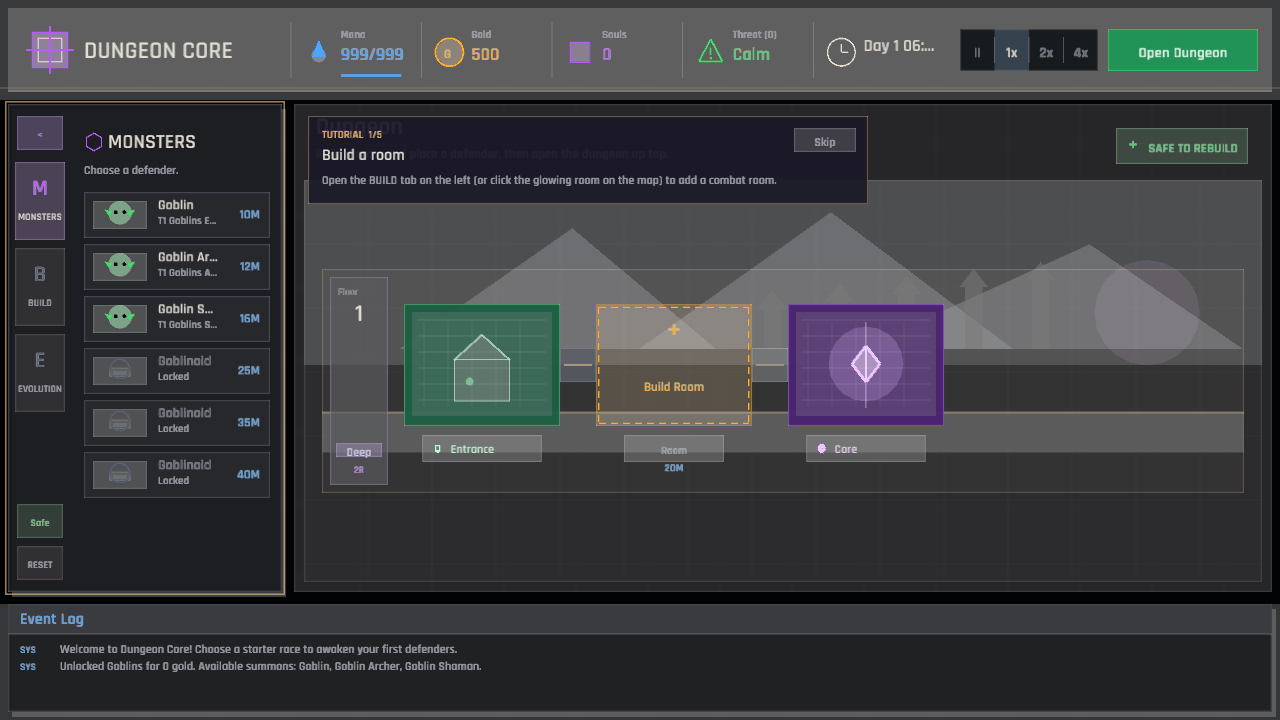
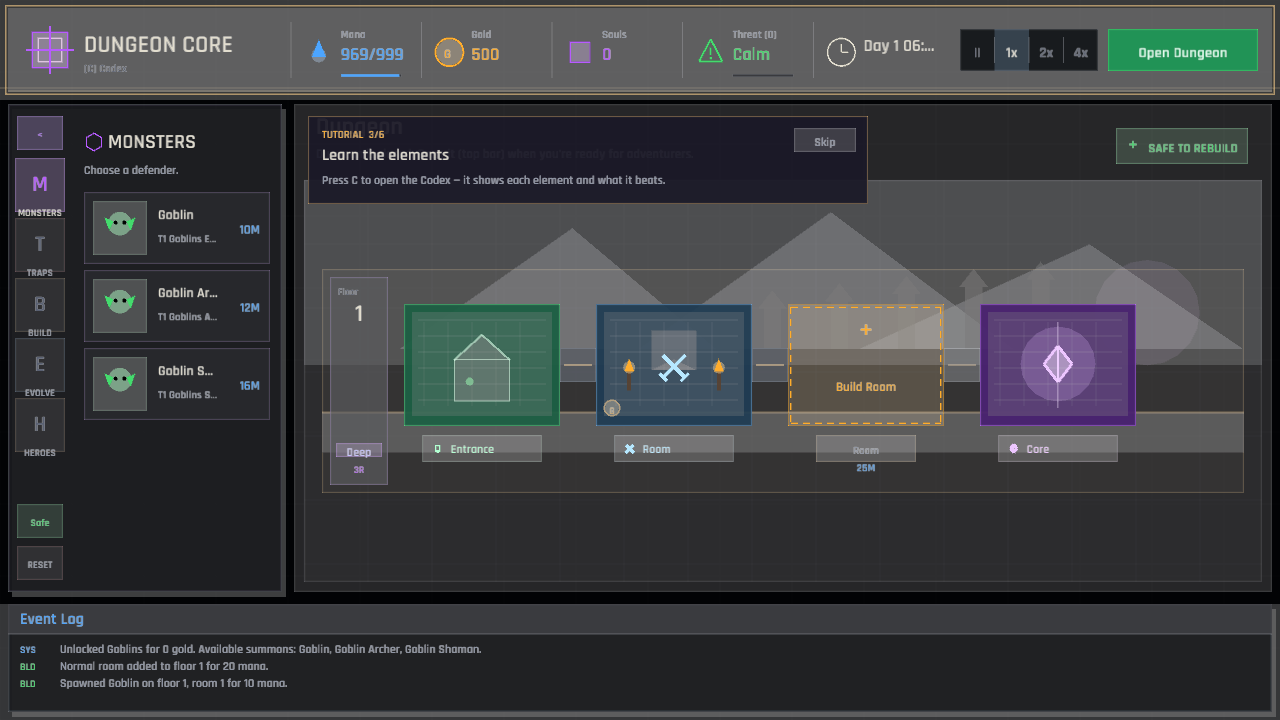
feat: raid legibility — tutorial teaches the element depth
The tutorial now onboards players into the systems, not just the buttons.
Adds a "Learn the elements" beat right after the first defender is placed,
gated on actually opening the Codex element wheel (press C), plus tightens
the raid step to point at the new HP-bar read ("defenders left, invaders
right"). Complements the at-placement matchup hints so the element/
attunement system is discoverable both in the funnel and at decision time.

Tracks a transient tutorial_codex_seen flag set when the Codex opens.
Now a 6-step tutorial; capture scene shows the new step.

Seventh Tier-1 (raid legibility) item; only party-token movement remains.

diff --git a/index.html b/index.html
@@ -92,7 +92,38 @@
     <!-- Macroquad JS Bundle -->
     <script src="mq_js_bundle.js"></script>
     <script>
-        document.getElementById('loading').style.display = 'none';
+        (function () {
+            var overlay = document.getElementById('loading');
+            var glcanvas = document.getElementById('glcanvas');
+            // Keep macroquad's drawing buffer matched to the canvas CSS size. The
+            // engine only re-measures on the window 'resize' event, but the
+            // responsive container can change size without firing one, which leaves
+            // mouse input offset from the rendered UI (the classic "cursor is in the
+            // wrong place" bug). Its onresize handler dereferences wasm_exports, so
+            // only sync once the game module has loaded.
+            function syncCanvasSize() {
+                if (window.wasm_exports) window.dispatchEvent(new Event('resize'));
+            }
+            // Reveal the canvas only once the wasm has instantiated and started
+            // (mq_js_bundle sets the global wasm_exports just before calling main()),
+            // instead of synchronously while the ~2 MB module is still downloading.
+            var waitStart = Date.now();
+            (function waitForGame() {
+                if (window.wasm_exports) {
+                    requestAnimationFrame(function () {
+                        if (overlay) overlay.style.display = 'none';
+                        syncCanvasSize();
+                        if (window.ResizeObserver && glcanvas) {
+                            new ResizeObserver(syncCanvasSize).observe(glcanvas);
+                        }
+                    });
+                } else if (Date.now() - waitStart > 30000) {
+                    if (overlay) overlay.style.display = 'none';
+                } else {
+                    requestAnimationFrame(waitForGame);
+                }
+            })();
+        })();
         
         load("dungeon_core.wasm");
 

diff --git a/src/ui/tutorial.rs b/src/ui/tutorial.rs
@@ -19,7 +19,7 @@ struct StepDef {
     anchor: TutorialAnchor,
 }
 
-const STEPS: [StepDef; 5] = [
+const STEPS: [StepDef; 6] = [
     StepDef {
         title: "Build a room",
         instruction: "Open the BUILD tab on the left (or click the glowing room on the map) to add a combat room.",
@@ -31,8 +31,13 @@ const STEPS: [StepDef; 5] = [
         anchor: TutorialAnchor::Drawer,
     },
     StepDef {
+        title: "Learn the elements",
+        instruction: "Press C to open the Codex — it shows each element and what it beats.",
+        anchor: TutorialAnchor::Hud,
+    },
+    StepDef {
         title: "Set a trap",
-        instruction: "Click a room to select it, then apply a Trap upgrade from the panel on the right.",
+        instruction: "Select a room, then apply a Trap upgrade from the right panel.",
         anchor: TutorialAnchor::Board,
     },
     StepDef {
@@ -42,7 +47,7 @@ const STEPS: [StepDef; 5] = [
     },
     StepDef {
         title: "Survive a raid",
-        instruction: "Adventurers are coming. Hold your core and let your defenders do their work!",
+        instruction: "Watch the HP bars trade blows. Hold your core and let your defenders work!",
         anchor: TutorialAnchor::Board,
     },
 ];
@@ -79,20 +84,22 @@ fn step_complete(state: &GameState, step_idx: usize) -> bool {
             .iter()
             .flat_map(|floor| &floor.rooms)
             .any(|room| !room.monsters.is_empty()),
+        // Learn the elements: the player opened the Codex element wheel.
+        2 => state.tutorial_codex_seen,
         // Set a trap: any room carries a Trap upgrade.
-        2 => state
+        3 => state
             .floors
             .iter()
             .flat_map(|floor| &floor.rooms)
             .any(|room| room.has_upgrade_type(RoomUpgradeType::Trap)),
         // Open the dungeon: it is open, has visitors, or a raid already ran.
-        3 => {
+        4 => {
             state.status == DungeonStatus::Open
                 || !state.adventurer_parties.is_empty()
                 || state.raids_completed >= 1
         }
         // Survive a raid: at least one party has come and gone.
-        4 => state.raids_completed >= 1,
+        5 => state.raids_completed >= 1,
         _ => true,
     }
 }

diff --git a/src/main.rs b/src/main.rs
@@ -542,6 +542,7 @@ fn render_playing_frame(
     if !*show_codex && is_key_pressed(KeyCode::C) {
         *show_codex = true;
         *codex_scroll = 0.0;
+        state.tutorial_codex_seen = true;
     }
     if *show_codex && draw_codex(state, sw, sh, codex_scroll) {
         *show_codex = false;
@@ -591,8 +592,14 @@ fn seed_capture_scene(state: &mut GameState, scene: &str) {
             if let Some(species) = first_starter_species() {
                 let _ = simulation::unlock_species(state, &species);
             }
+            // Mid-tutorial: a room and defender are down, now learning elements.
+            let _ = simulation::add_room(state, None);
+            let monster = state.unlocked_monsters.first().cloned();
+            if let (Some(monster), Some((floor, pos))) = (monster, find_combat_room(state)) {
+                let _ = simulation::place_monster(state, floor, pos, &monster);
+            }
             state.tutorial_active = true;
-            state.tutorial_step = 0;
+            state.tutorial_step = 2;
             state.status = DungeonStatus::Closed;
         }
         "placement" => {

diff --git a/src/game_state.rs b/src/game_state.rs
@@ -457,6 +457,10 @@ pub struct GameState {
     pub tutorial_active: bool,
     #[serde(default)]
     pub tutorial_step: i32,
+    /// The player has opened the Codex at least once (drives the tutorial's
+    /// "learn the elements" beat). Transient — re-taught each session.
+    #[serde(skip)]
+    pub tutorial_codex_seen: bool,
 
     // Monster progression
     pub unlocked_species: Vec<String>,
@@ -523,6 +527,7 @@ impl GameState {
             game_over: false,
             tutorial_active: true,
             tutorial_step: 0,
+            tutorial_codex_seen: false,
             unlocked_species: vec![],
             unlocked_monsters: vec![],
             selected_room: None,

diff --git a/COMMERCIAL_ROADMAP.md b/COMMERCIAL_ROADMAP.md
@@ -67,9 +67,13 @@ every tick — and surfaces it as log lines and floating strings.
       threshold; an active siege paints a pulsing red screen frame plus a bold
       "DEFEND THE CORE" banner. The siege is threshold- not time-triggered, so a
       dread meter replaces a literal day countdown.)*
-- [ ] **Teach the depth, not just the buttons.** The 5-step tutorial covers
+- [x] **Teach the depth, not just the buttons.** The 5-step tutorial covers
       controls; nothing teaches element counters, attunement, or trait synergy.
       Add contextual tips and one guided "your first synergy" beat.
+      *(Done: tutorial is now 6 steps with a "Learn the elements" beat after the
+      first defender — gated on opening the Codex element wheel — plus the raid
+      step now points at the HP-bar read. Complements the at-placement matchup
+      hints. A deeper multi-tip synergy walkthrough remains possible later.)*
 
 ## Tier 2 — Player agency & the shape of a full game
 